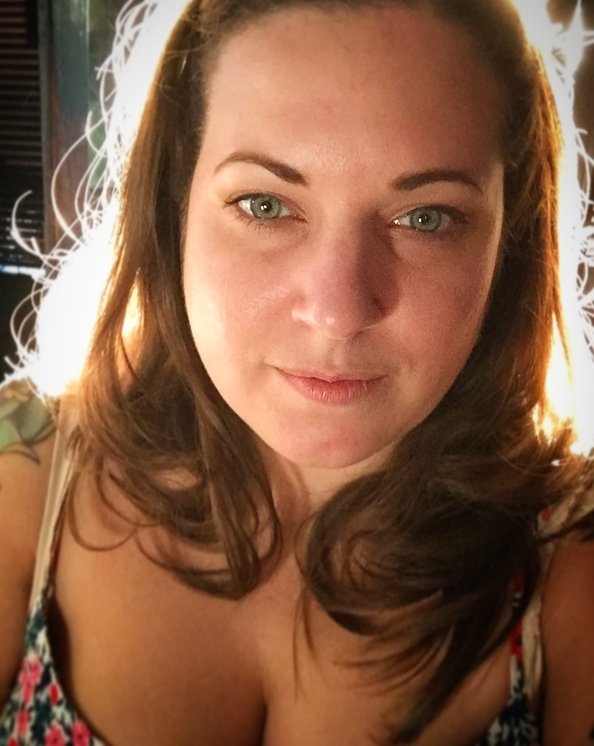
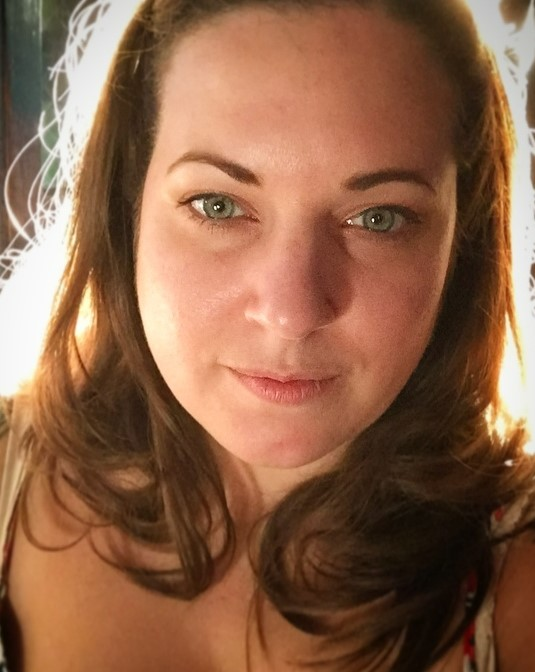
cropped image, added some styling to text

diff --git a/about.html b/about.html
@@ -25,10 +25,10 @@
     <div class="container">
       <div class="row">
         <div class="col-6">
-          <h3>Hello! I am</h3>
+          <h3 class="mb-1">Hello! I am</h3>
           <h1>Kristen Barbier</h1>
-          <h4>Front-end Developer based in Texas.</h4>
-          <p>
+          <h4 class="mb-4">Front-end Developer based in Texas.</h4>
+          <p class="text-muted">
             Tempor cursus porta. Libero, porttitor per laoreet. Lacus hac Mauris
             pulvinar semper dapibus tellus suscipit volutpat mollis Lacinia
             congue metus luctus consequat sit nisl ipsum ultricies justo fusce
@@ -44,11 +44,11 @@
             src="/images/kristen.jpg"
             alt="Kristen Barbier"
             title="Kristen Barbier"
-            class="img-fluid rounded shadow selfie"
+            class="img-fluid shadow rounded mb-5 selfie"
           />
         </div>
       </div>
-      <div class="work-inquiry">
+      <div class="work-inquiry shadow rounded">
         <div class="row">
           <div class="col-6">
             <h2>Work Inquiry</h2>

diff --git a/src/styles.css b/src/styles.css
@@ -70,7 +70,6 @@ hr {
 
 .the-projects {
   background-color: var(--secondary-color);
-
   padding: 60px;
   max-width: 100%;
 }
@@ -83,6 +82,9 @@ hr {
 
 .selfie {
   max-width: 300px;
+}
+.work-inquiry {
+  background: rgb(233, 250, 255);
 }
 
 @media (max-width: 990px) {
